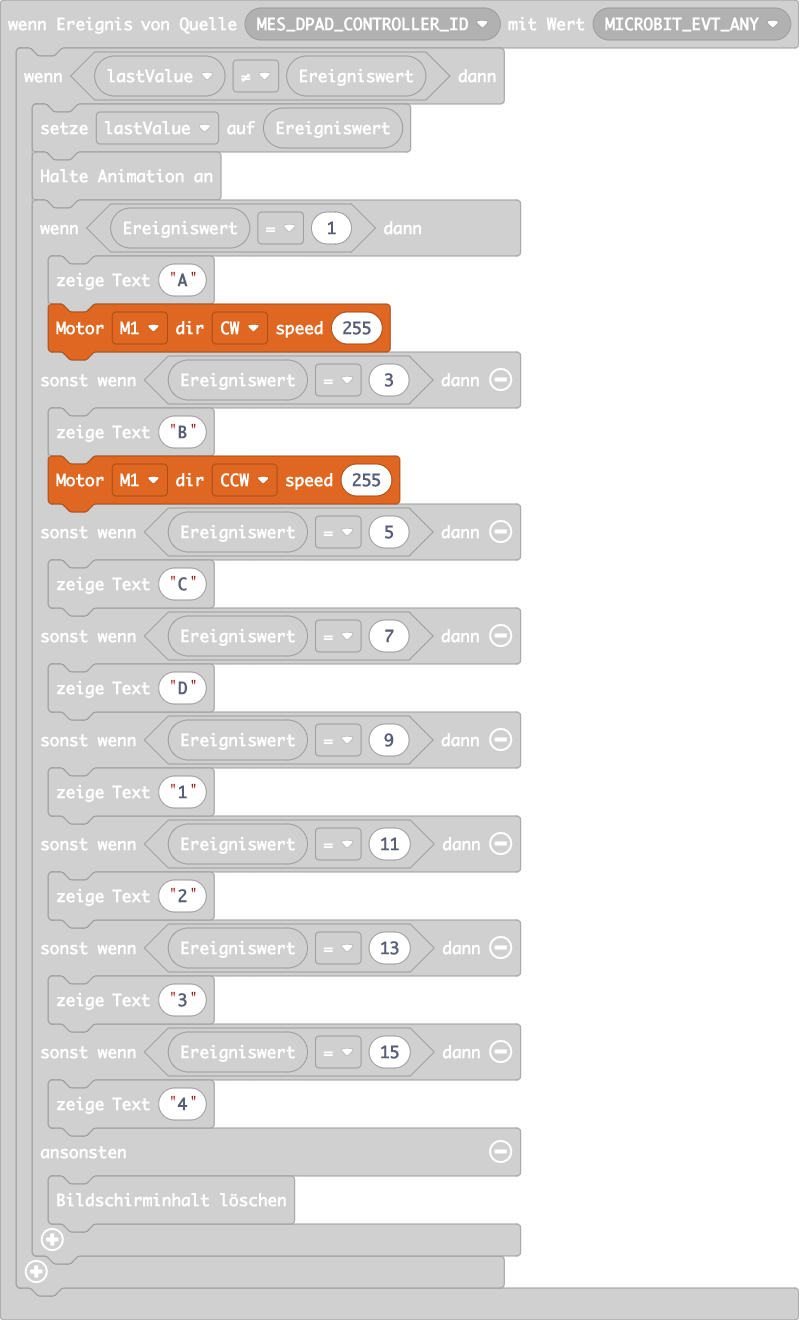
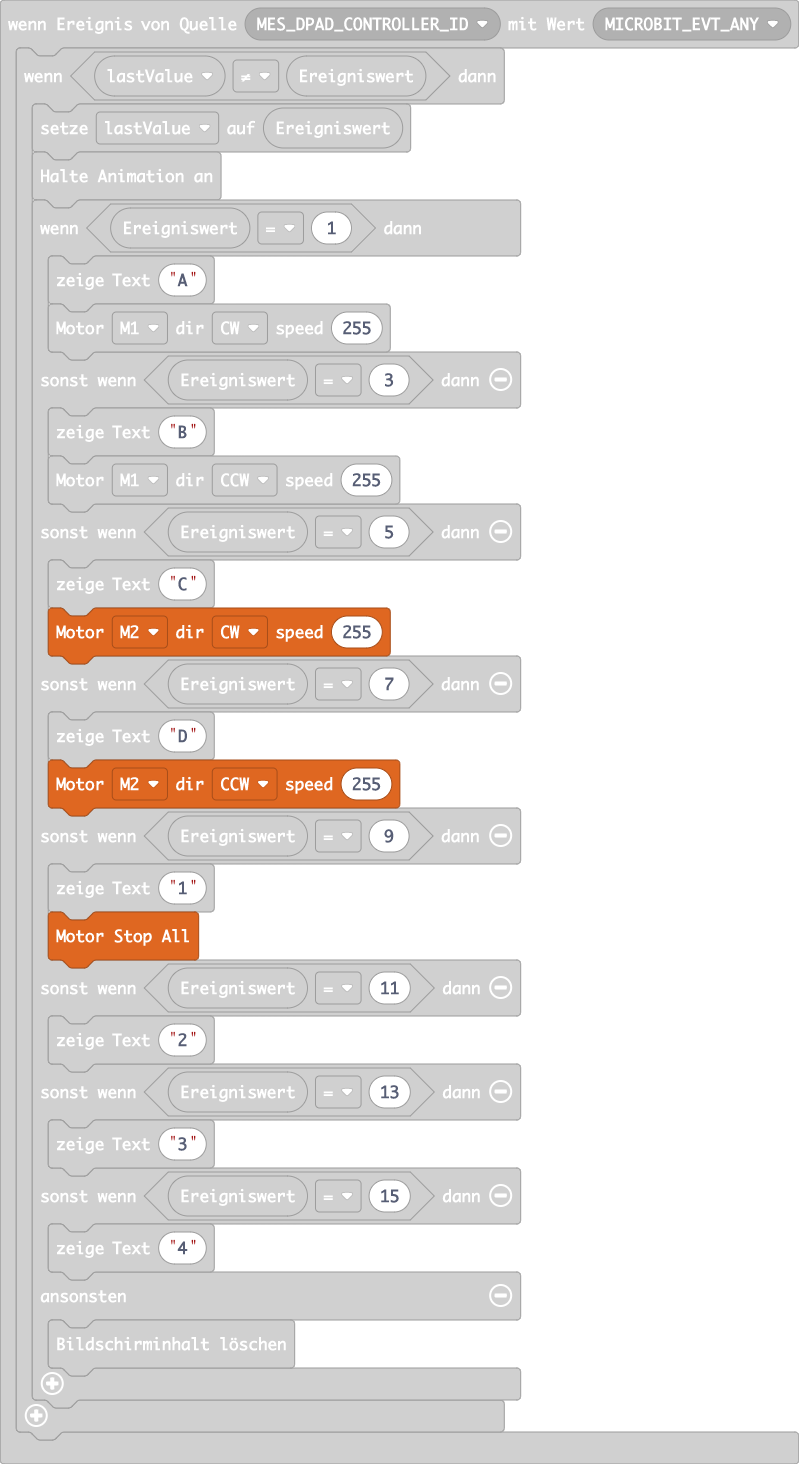
Aktualisiere main.blocks, main.ts

Changed region(s): [[0.03, 0.0, 1.0, 0.9939]]

diff --git a/main.ts b/main.ts
@@ -10,10 +10,13 @@ control.onEvent(EventBusSource.MES_DPAD_CONTROLLER_ID, EventBusValue.MICROBIT_EV
             motor.MotorRun(motor.Motors.M1, motor.Dir.CCW, 255)
         } else if (control.eventValue() == 5) {
             basic.showString("C")
+            motor.MotorRun(motor.Motors.M2, motor.Dir.CW, 255)
         } else if (control.eventValue() == 7) {
             basic.showString("D")
+            motor.MotorRun(motor.Motors.M2, motor.Dir.CCW, 255)
         } else if (control.eventValue() == 9) {
             basic.showString("1")
+            motor.motorStopAll()
         } else if (control.eventValue() == 11) {
             basic.showString("2")
         } else if (control.eventValue() == 13) {
